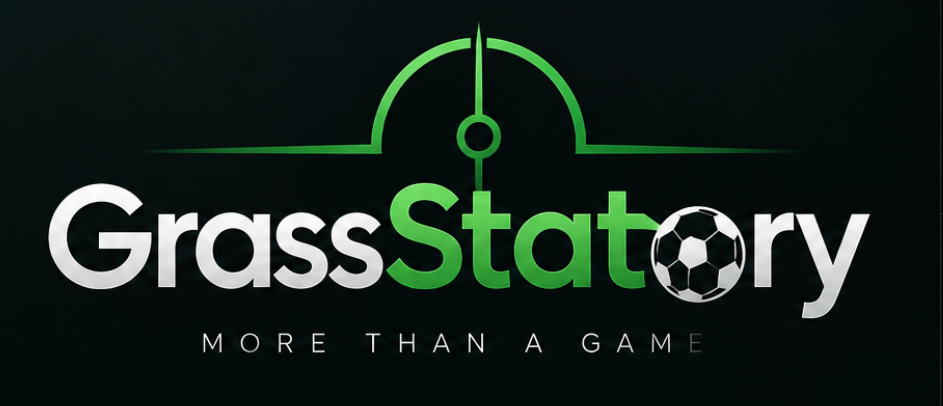
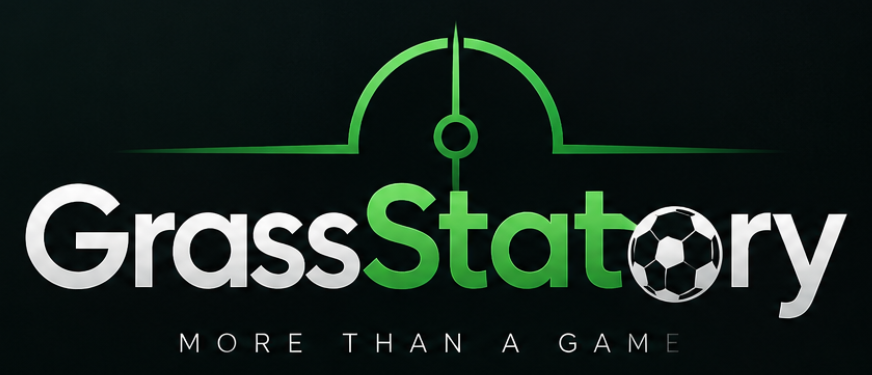
Add files via upload
free version final polish brand

diff --git a/style.css b/style.css
@@ -633,3 +633,24 @@ button:focus-visible,input:focus-visible,select:focus-visible{outline:2px solid 
 @media(max-width:700px){.match-lobby-head{flex-direction:row!important;align-items:flex-start!important}.match-lobby-head>button{width:auto!important;flex:0 0 auto}.two-column-mobile{grid-template-columns:1fr!important}.lobby-opponent-preview{min-height:88px}.onboarding-done-actions{grid-template-columns:1fr}.onboarding-identity-preview{justify-content:flex-start}}
 
 @media(max-width:520px){.splash-wordmark{width:94vw;max-width:520px}.splash-content{padding:20px 12px 24px}.splash-tagline{font-size:18px}}
+
+/* v21.1.6 brand/layout polish */
+.splash-content{width:min(94vw,760px);margin:0 auto;text-align:center;align-items:center}
+.splash-brand-image{display:block;width:min(92vw,720px);height:auto;max-height:42vh;object-fit:contain;margin:0 auto 14px}
+.splash-tagline{margin:0 auto;text-align:center;max-width:620px}
+.splash-credit{margin-left:auto;margin-right:auto;text-align:center}
+.home-season-snapshot{display:flex;align-items:center;justify-content:space-between;gap:18px;flex-wrap:wrap}
+.home-top-scorer{display:flex;align-items:center;gap:10px;flex-wrap:wrap}
+.home-top-scorer>span{color:var(--muted);font-weight:700}
+.home-top-scorer>strong{display:flex;align-items:center;gap:10px;font-size:1.05rem}
+.home-top-scorer em{font-style:normal;color:var(--accent)}
+.app-brand-mini{display:flex;align-items:center;gap:9px;min-width:0}
+.app-brand-mini img{width:34px;height:34px;border-radius:9px;object-fit:cover;flex:0 0 auto}
+.app-brand-mini strong{font-size:1rem;letter-spacing:.01em}
+@media(max-width:600px){
+  .splash-content{width:100%;padding-inline:18px}
+  .splash-brand-image{width:100%;max-height:34vh}
+  .splash-tagline{font-size:1rem}
+  .home-season-snapshot{align-items:stretch}
+  .home-season-snapshot .secondary-btn{width:100%}
+}

diff --git a/index.html b/index.html
@@ -6,7 +6,7 @@
   <meta name="theme-color" content="#06131a" />
   <title>GrassStatory</title>
   <link rel="manifest" href="manifest.json" />
-  <link rel="stylesheet" href="style.css?v=21.1.5" />
+  <link rel="stylesheet" href="style.css?v=21.1.6" />
 
   <style id="critical-ui">
     html,body{margin:0;min-height:100%;background:#06131c;color:#f8fafc;font-family:Inter,ui-sans-serif,system-ui,-apple-system,BlinkMacSystemFont,"Segoe UI",sans-serif}
@@ -31,6 +31,8 @@
     </div>
   </div>
   <main class="app-shell">
+<div class="app-brand-mini" aria-label="GrassStatory"><img src="grassstatory-app-icon.png" alt=""><strong>GrassStatory</strong></div>
+
     <header class="app-header">
       <div>
         <p class="eyebrow">GRASSROOTS FOOTBALL</p>
